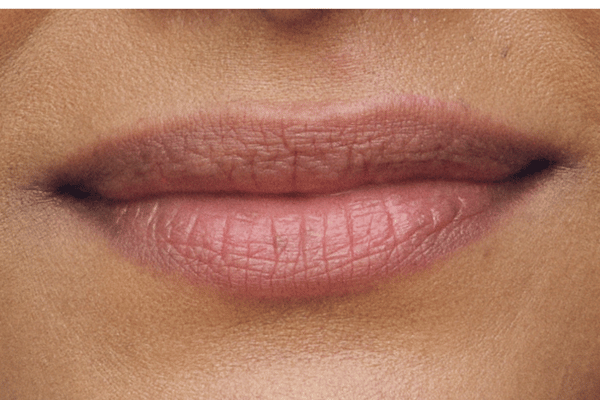
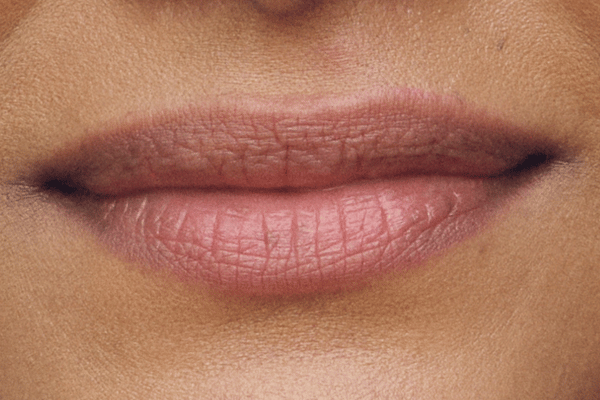
Fill remaining quiz slots and refresh two lip tone photos
- Rich Brown gains charithra; Full Brown gains geeta, apoorva, lakshmi
  (all four from the curated skin_tone set with optimized web copies) -
  no placeholder slots remain on the skin tone step
- Regenerate brown-rose-2 and grey-rose-3 web copies from replaced
  originals

diff --git a/src/pages/Index.tsx b/src/pages/Index.tsx
@@ -85,6 +85,10 @@ import stMaseray from "@/assets/skin_tone/web/skin_tone_maseray.jpg";
 import stAaliyah from "@/assets/skin_tone/web/skin_tone_aaliyah.jpg";
 import stDivya from "@/assets/skin_tone/web/skin_tone_divya.jpg";
 import stDoe from "@/assets/skin_tone/web/skin_tone_doe.jpg";
+import stCharithra from "@/assets/skin_tone/web/skin_tone_charithra.jpg";
+import stGeeta from "@/assets/skin_tone/web/skin_tone_geeta.jpg";
+import stApoorva from "@/assets/skin_tone/web/skin_tone_apoorva.jpg";
+import stLakshmi from "@/assets/skin_tone/web/skin_tone_lakshmi.jpg";
 import terushka from "@/assets/terushka.jpg";
 import aashi from "@/assets/aashi.jpg";
 import aaliyah from "@/assets/aaliyah.jpg";
@@ -673,8 +677,8 @@ const Index = () => {
                         "light-brown": [stSanna, stSaira, stArris, stHareem],
                         "medium-brown": [stTerushka, stNoreen, stTanvi, stAashi],
                         "deep-brown": [stCynthia, stDoe, stNero, stAnastasia],
-                        "rich-brown": [stDivya, stAaliyah, "", stPritt],
-                        "full-brown": [stMaseray, "", "", ""],
+                        "rich-brown": [stDivya, stAaliyah, stCharithra, stPritt],
+                        "full-brown": [stMaseray, stGeeta, stApoorva, stLakshmi],
                       };
                       const samples = SAMPLES[tone.id] ?? [];
                       return (
